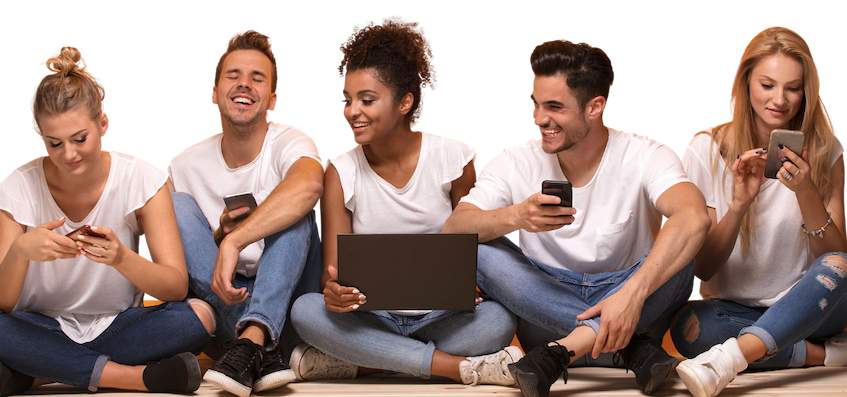
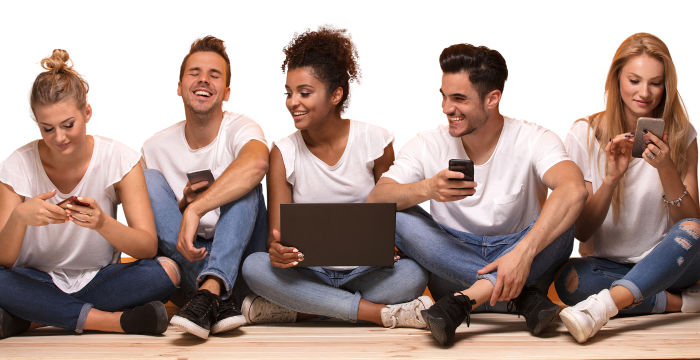
Fix picture size issue

diff --git a/assets/css/style.css b/assets/css/style.css
@@ -103,7 +103,7 @@ header {
     width: 100%;
     height: 500px;
     background-color: var(--brun);
-    background-image: url("../images/coverpeople.png");
+    background-image: url("../images/coverpeople.jpg");
     background-repeat: no-repeat;
     background-size: cover;
     background-position: center;
@@ -352,7 +352,7 @@ header {
 #lets-meet-image {
     width: 100%;
     height: 100%;
-    background-image: url("../images/contact.png");
+    background-image: url("../images/contact.jpg");
     background-repeat: no-repeat;
     background-size: cover;
     background-position: center;

diff --git a/index.html b/index.html
@@ -106,7 +106,7 @@
                         <p>Signing the contact and welcoming your new employe.</p>
                     </div>
                     <div id="stepimage">
-                        <img src="assets/images/4steps.png" alt="2 hands shaking">
+                        <img src="assets/images/4steps.jpg" alt="2 hands shaking">
                     </div>
                 </div>
             </section>

diff --git a/README.md b/README.md
@@ -49,7 +49,7 @@ The service differs from headhunters in that it is much more cost-competitive, a
 
 ### Debugging
 
-No major issues, just one synthax issue on the grid technology
+No major issues, just one synthax issue on the grid technology and the form background color that needed to be darker.
 
 ### Credits
 
